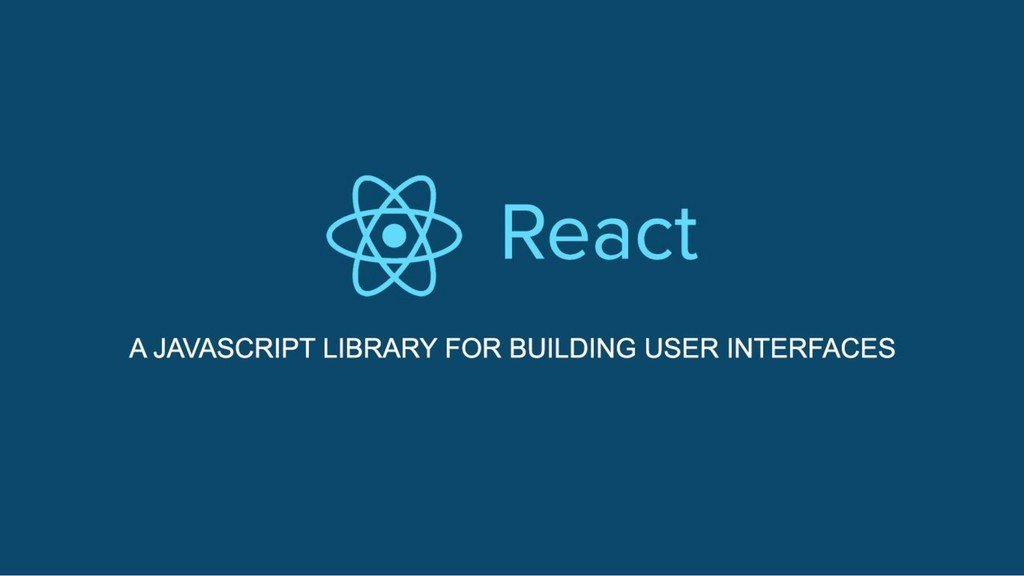
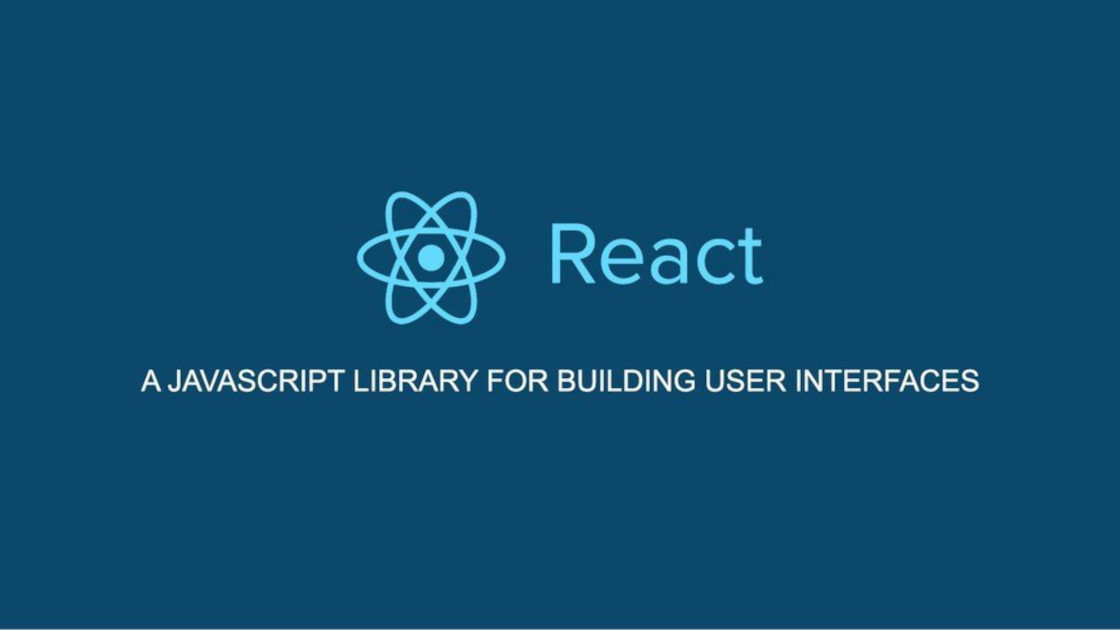
reformat images for personal page

Changed region(s): [[0.125, 0.5938, 0.875, 0.625]]

diff --git a/src/pages/personal/personal.jsx b/src/pages/personal/personal.jsx
@@ -3,8 +3,8 @@ import { Avatar } from "../../components/avatar";
 import './personal.css';
 import avatarDefault from '../../assets/images/avatarDefault.jpg';
 import fEndLanguage from '../../assets/images/front-end-stack.png';
-import reactLogo from '../../assets/images/React.jpeg';
-import githubLogo from '../../assets/images/rubaitul-azad-HLQDfaJUTVI-unsplash (1).jpg';
+import frameworks from '../../assets/images/Frameworks.jpeg';
+import github from '../../assets/images/github.jpeg';
 
 
 export const Personal = () => {
@@ -24,12 +24,12 @@ export const Personal = () => {
             </div>
 
             <div className="mt-4">
-                This section will be about me.
+            Hello, I'm Jason L Silvis, a passionate software engineer on a mission to craft exceptional digital experiences. With expertise in JavaScript, React, and Node.js, I bring creativity and precision to every project. My journey in coding is driven by a deep love for problem-solving and a commitment to user-centric design. When I'm not coding, you'll find me spending time with my family, which fuels my creativity and keeps me inspired. Let's collaborate and create something extraordinary!
             </div>
             </div>
             
             
-            <div id="carouselExampleCaptions" class="carousel slide">
+            <div id="carouselExampleCaptions" class="carousel slide mt-4">
                 <div class="carousel-indicators">
                  <button type="button" data-bs-target="#carouselExampleCaptions" data-bs-slide-to="0" class="active" aria-current="true" aria-label="Slide 1"></button>
                  <button type="button" data-bs-target="#carouselExampleCaptions" data-bs-slide-to="1" aria-label="Slide 2"></button>
@@ -44,14 +44,14 @@ export const Personal = () => {
                 </div>
               </div>
              <div class="carousel-item">
-               <img src={reactLogo} class="d-block w-100" alt="React logo"/>
+               <img src={frameworks} class="d-block w-100" alt="React logo"/>
                <div class="carousel-caption d-none d-md-block">
                   <h5>Framworks</h5>
                   <p>Some representative placeholder content for the second slide.</p>
                 </div>
               </div>
               <div class="carousel-item">
-                <img src={githubLogo} class="d-block w-100" alt="Github Logo"/>
+                <img src={github} class="d-block w-100" alt="Github Logo"/>
                 <div class="carousel-caption d-none d-md-block">
                    <h5>Skills</h5>
                    <p>Some representative placeholder content for the third slide.</p>
